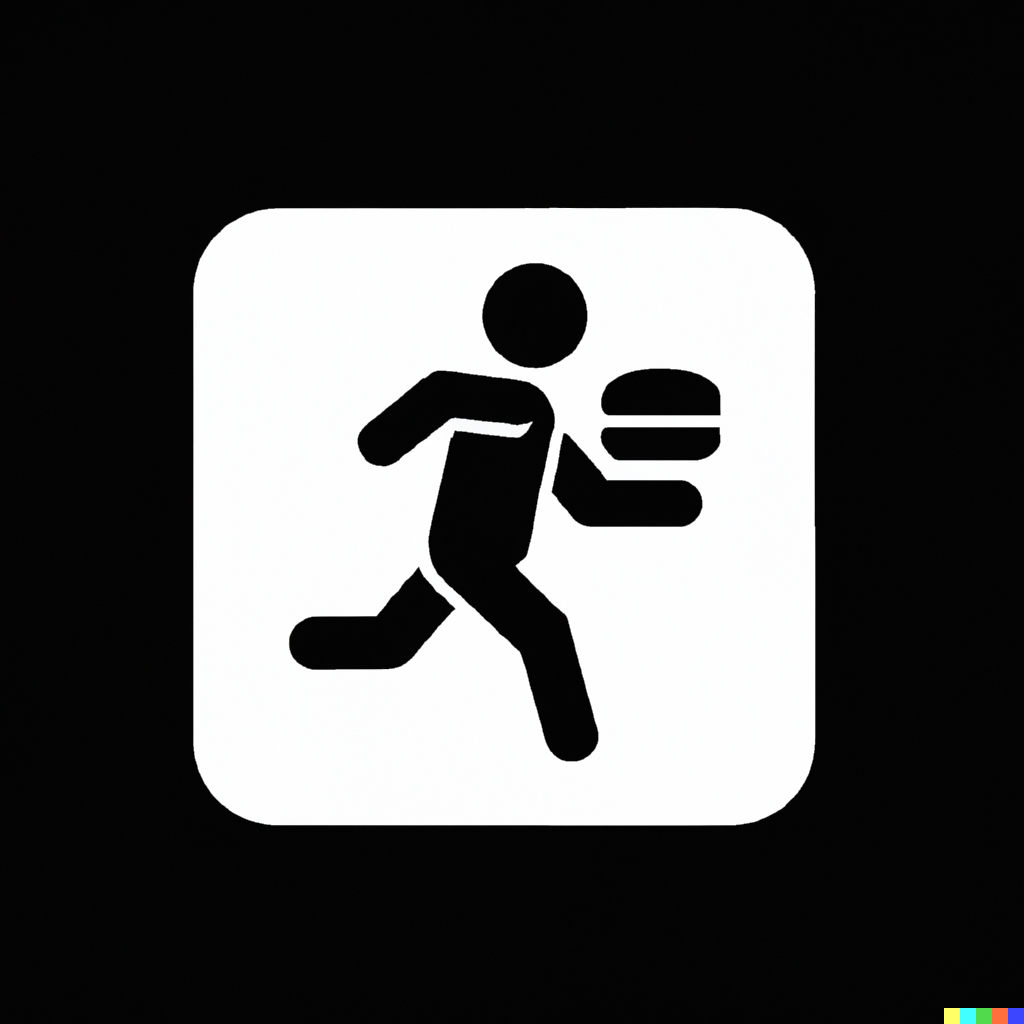
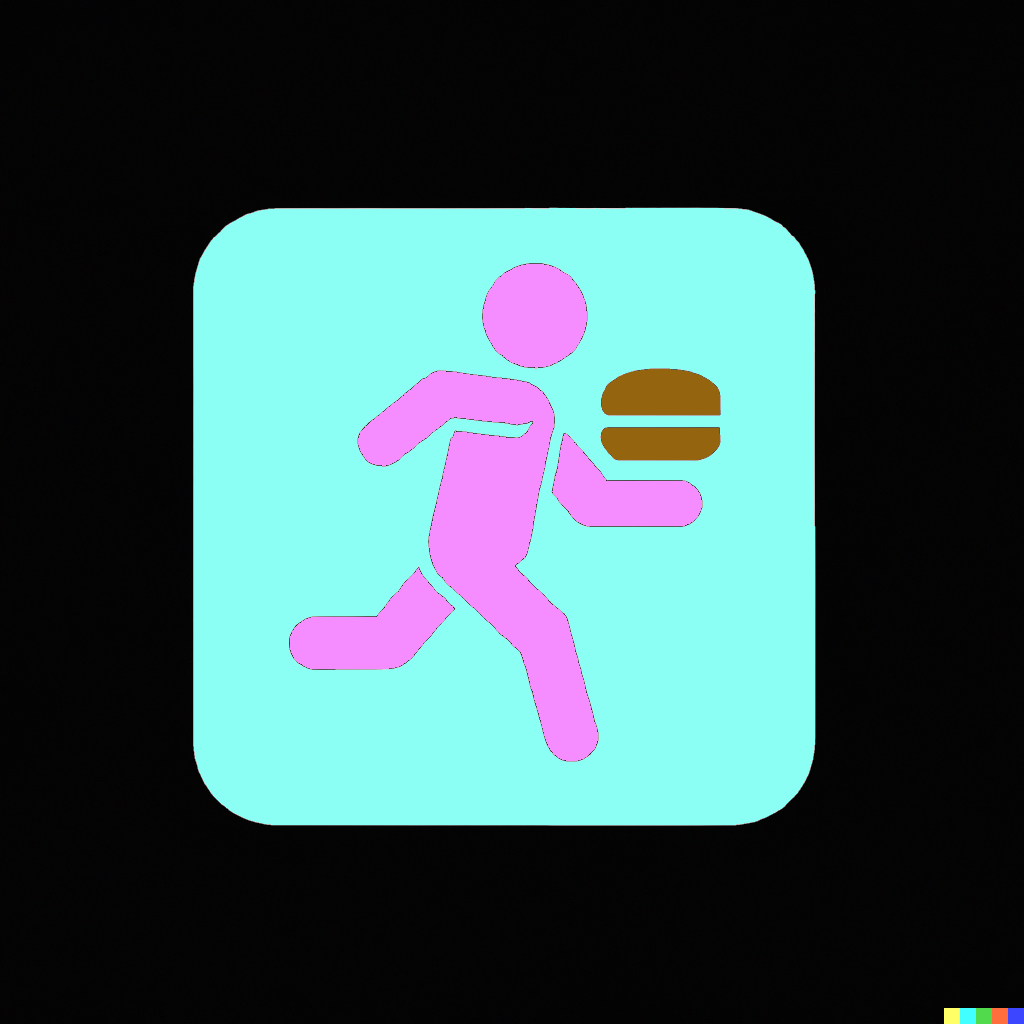
Added Bartender Position, added color to position images

diff --git a/RicksStaffApp/frmNewShift.cs b/RicksStaffApp/frmNewShift.cs
@@ -572,50 +572,99 @@ namespace RicksStaffApp
             }
             CreateEmployeeShiftPanels(flowEmployeeShiftDisplay, DateOnly.FromDateTime(dtpShiftDate.Value), pnlNewShiftDisplay);
         }
-        private static void UpdateEmployeeShiftPanel (EmployeeShift employeeShift, FlowLayoutPanel flowDisplay)
+        private void UpdateEmployeeShiftPanel (EmployeeShift es, FlowLayoutPanel flowDisplay, Panel secondPanel)
         {
             foreach (Control c in flowDisplay.Controls)
             {
                 
-                    if (c.Tag == employeeShift && c is FlowLayoutPanel empShiftContainer)
+                    if (c.Tag == es && c is FlowLayoutPanel empShiftContainer)
                     {
                         // Update employee shift rating
-                        employeeShift.UpdateShiftRating();
+                        es.UpdateShiftRating();
+                        empShiftContainer.Controls.Clear();
+                        System.Windows.Forms.Label lblName = UIHelper.CreateLabel(100, 30, es.Employee.FullName);
+                        empShiftContainer.Controls.Add(lblName);
 
-                        foreach (Control control in empShiftContainer.Controls)
+                        //Label lblPos = CreateLabel(60, 30, es.Position.Name);                        
+                        //empShiftContainer.Controls.Add(lblPos);
+                        PictureBox pbPosition = UIHelper.CreatePositionPictureBox(30, 30, es.Position);
+                        empShiftContainer.Controls.Add(pbPosition);
+
+                        System.Windows.Forms.Label lblShiftRating = UIHelper.CreateLabel(25, 30, es.ShiftRating.ToString());
+                        empShiftContainer.Controls.Add(lblShiftRating);
+
+                        PictureBox pbRating = UIHelper.CreateRatingPictureBox(90, 30, es.ShiftRating);
+                        empShiftContainer.Controls.Add(pbRating);
+
+                        System.Windows.Forms.Button btnIncidents = UIHelper.CreateButtonTemplate(65, 30, "Incidents");
+                        FlowLayoutPanel incidentContainer = UIHelper.CreateFlowPanel(470, 30);
+                        bool btnClicked = false;
+                        btnIncidents.Click += (sender, e) =>
                         {
-                            // Update rating picture box image
-                            if (control is PictureBox pb)  // assuming the PictureBox's name is pbRating
+                            btnClicked = !btnClicked;
+                            if (btnClicked)
                             {
-                                pb.Image = UIHelper.GetStars(employeeShift.ShiftRating); // GetRatingImage is your own method to get image based on rating
+                                //May need to pass in shift and make it shiftToEdit?
+                                UIHelper.CreateIncidentPanels_REPLACE(es.Incidents, incidentContainer, es.Shift);
+                                empShiftContainer.Controls.Add(incidentContainer);
+                            }
+                            else
+                            {
+                                incidentContainer.Controls.Clear();
+                                empShiftContainer.Controls.Remove(incidentContainer);
                             }
 
-                            // Update incidents button click handler
-                            if (control is System.Windows.Forms.Button btn && btn.Name == "btnIncidents") // assuming the Button's name is btnIncidents
-                            {
-                                control.Dispose();
+                        };
+                        empShiftContainer.Controls.Add(btnIncidents);
 
-                                //// remove all handlers attached to the Click event
-                                //btn.Click -= btn_Click;  // assuming that btn_Click is the current method attached to the Click event
+                        System.Windows.Forms.Button btnAddIncidents = UIHelper.CreateButtonTemplate(65, 30, "Add/Edit");
+                        btnAddIncidents.Click += (sender, e) =>
+                        {
+                            secondPanel.Controls.Clear();
+                            frmServerShift frmServerShift = new frmServerShift(es);
+                            frmServerShift.EmployeeShiftUpdated += FrmServerShift_EmployeeShiftUpdated;
+                            //frmServerShift.EmployeeShiftToEdit = es;
+                            frmServerShift.TopLevel = false;
+                            secondPanel.Controls.Add(frmServerShift);
 
-                                //// add new handler
-                                //bool btnClicked = false;
-                                //btn.Click += (sender, e) =>
-                                //{
-                                //    btnClicked = !btnClicked;
-                                //    if (btnClicked)
-                                //    {
-                                //        // replace the 'shift' variable with the new updated employee shift 
-                                //        UIHelper.CreateIncidentPanels_REPLACE(employeeShift.Incidents, empShiftContainer, employeeShift);
-                                //    }
-                                //    else
-                                //    {
-                                //        empShiftContainer.Controls.Clear();
-                                //    }
-                                //};
-                            }
-                        }
-                    }
+                            frmServerShift.Show();
+                        };
+                        empShiftContainer.Controls.Add(btnAddIncidents);
+
+                    //foreach (Control control in empShiftContainer.Controls)
+                    //{
+                    //    // Update rating picture box image
+                    //    if (control is PictureBox pb)  // assuming the PictureBox's name is pbRating
+                    //    {
+                    //        pb.Image = UIHelper.GetStars(employeeShift.ShiftRating); // GetRatingImage is your own method to get image based on rating
+                    //    }
+
+                    //    // Update incidents button click handler
+                    //    if (control is System.Windows.Forms.Button btn && btn.Name == "btnIncidents") // assuming the Button's name is btnIncidents
+                    //    {
+                    //        control.Dispose();
+
+                    //        //// remove all handlers attached to the Click event
+                    //        //btn.Click -= btn_Click;  // assuming that btn_Click is the current method attached to the Click event
+
+                    //        //// add new handler
+                    //        //bool btnClicked = false;
+                    //        //btn.Click += (sender, e) =>
+                    //        //{
+                    //        //    btnClicked = !btnClicked;
+                    //        //    if (btnClicked)
+                    //        //    {
+                    //        //        // replace the 'shift' variable with the new updated employee shift 
+                    //        //        UIHelper.CreateIncidentPanels_REPLACE(employeeShift.Incidents, empShiftContainer, employeeShift);
+                    //        //    }
+                    //        //    else
+                    //        //    {
+                    //        //        empShiftContainer.Controls.Clear();
+                    //        //    }
+                    //        //};
+                    //    }
+                    //}
+                }
                 
             }
         }
@@ -726,7 +775,7 @@ namespace RicksStaffApp
         }
         private void FrmServerShift_EmployeeShiftUpdated(EmployeeShift employeeShift)
         {
-            UpdateEmployeeShiftPanel(employeeShift, flowEmployeeShiftDisplay);
+            UpdateEmployeeShiftPanel(employeeShift, flowEmployeeShiftDisplay, pnlNewShiftDisplay);
         }
 
         private void CalendarShiftClicked(object sender, EventArgs e)

diff --git a/RicksStaffApp/Properties/Resources.Designer.cs b/RicksStaffApp/Properties/Resources.Designer.cs
@@ -183,6 +183,36 @@ namespace RicksStaffApp.Properties {
         /// <summary>
         ///   Looks up a localized resource of type System.Drawing.Bitmap.
         /// </summary>
+        internal static System.Drawing.Bitmap Bartender {
+            get {
+                object obj = ResourceManager.GetObject("Bartender", resourceCulture);
+                return ((System.Drawing.Bitmap)(obj));
+            }
+        }
+        
+        /// <summary>
+        ///   Looks up a localized resource of type System.Drawing.Bitmap.
+        /// </summary>
+        internal static System.Drawing.Bitmap Bartender1 {
+            get {
+                object obj = ResourceManager.GetObject("Bartender1", resourceCulture);
+                return ((System.Drawing.Bitmap)(obj));
+            }
+        }
+        
+        /// <summary>
+        ///   Looks up a localized resource of type System.Drawing.Bitmap.
+        /// </summary>
+        internal static System.Drawing.Bitmap Bartender3 {
+            get {
+                object obj = ResourceManager.GetObject("Bartender3", resourceCulture);
+                return ((System.Drawing.Bitmap)(obj));
+            }
+        }
+        
+        /// <summary>
+        ///   Looks up a localized resource of type System.Drawing.Bitmap.
+        /// </summary>
         internal static System.Drawing.Bitmap Blank_Slate_Stars {
             get {
                 object obj = ResourceManager.GetObject("Blank_Slate_Stars", resourceCulture);
@@ -203,9 +233,29 @@ namespace RicksStaffApp.Properties {
         /// <summary>
         ///   Looks up a localized resource of type System.Drawing.Bitmap.
         /// </summary>
-        internal static System.Drawing.Bitmap Busser {
+        internal static System.Drawing.Bitmap Busser1 {
             get {
-                object obj = ResourceManager.GetObject("Busser", resourceCulture);
+                object obj = ResourceManager.GetObject("Busser1", resourceCulture);
+                return ((System.Drawing.Bitmap)(obj));
+            }
+        }
+        
+        /// <summary>
+        ///   Looks up a localized resource of type System.Drawing.Bitmap.
+        /// </summary>
+        internal static System.Drawing.Bitmap Busser3 {
+            get {
+                object obj = ResourceManager.GetObject("Busser3", resourceCulture);
+                return ((System.Drawing.Bitmap)(obj));
+            }
+        }
+        
+        /// <summary>
+        ///   Looks up a localized resource of type System.Drawing.Bitmap.
+        /// </summary>
+        internal static System.Drawing.Bitmap BusserPic {
+            get {
+                object obj = ResourceManager.GetObject("BusserPic", resourceCulture);
                 return ((System.Drawing.Bitmap)(obj));
             }
         }
@@ -263,6 +313,26 @@ namespace RicksStaffApp.Properties {
         /// <summary>
         ///   Looks up a localized resource of type System.Drawing.Bitmap.
         /// </summary>
+        internal static System.Drawing.Bitmap FoodRunner1 {
+            get {
+                object obj = ResourceManager.GetObject("FoodRunner1", resourceCulture);
+                return ((System.Drawing.Bitmap)(obj));
+            }
+        }
+        
+        /// <summary>
+        ///   Looks up a localized resource of type System.Drawing.Bitmap.
+        /// </summary>
+        internal static System.Drawing.Bitmap FoodRunner2 {
+            get {
+                object obj = ResourceManager.GetObject("FoodRunner2", resourceCulture);
+                return ((System.Drawing.Bitmap)(obj));
+            }
+        }
+        
+        /// <summary>
+        ///   Looks up a localized resource of type System.Drawing.Bitmap.
+        /// </summary>
         internal static System.Drawing.Bitmap ForwardArrow {
             get {
                 object obj = ResourceManager.GetObject("ForwardArrow", resourceCulture);
@@ -306,6 +376,16 @@ namespace RicksStaffApp.Properties {
         internal static System.Drawing.Bitmap Host {
             get {
                 object obj = ResourceManager.GetObject("Host", resourceCulture);
+                return ((System.Drawing.Bitmap)(obj));
+            }
+        }
+        
+        /// <summary>
+        ///   Looks up a localized resource of type System.Drawing.Bitmap.
+        /// </summary>
+        internal static System.Drawing.Bitmap Host1 {
+            get {
+                object obj = ResourceManager.GetObject("Host1", resourceCulture);
                 return ((System.Drawing.Bitmap)(obj));
             }
         }
@@ -396,6 +476,16 @@ namespace RicksStaffApp.Properties {
         internal static System.Drawing.Bitmap Server {
             get {
                 object obj = ResourceManager.GetObject("Server", resourceCulture);
+                return ((System.Drawing.Bitmap)(obj));
+            }
+        }
+        
+        /// <summary>
+        ///   Looks up a localized resource of type System.Drawing.Bitmap.
+        /// </summary>
+        internal static System.Drawing.Bitmap Server1 {
+            get {
+                object obj = ResourceManager.GetObject("Server1", resourceCulture);
                 return ((System.Drawing.Bitmap)(obj));
             }
         }

diff --git a/RicksStaffApp/frmExcelDownload.cs b/RicksStaffApp/frmExcelDownload.cs
@@ -466,7 +466,7 @@ namespace RicksStaffApp
                 employeeShifts.Add(employeeShift);
             
         }
-
+        //public delegate void ShiftCreatedEventHandler
         private void btnCreateShift_Click(object sender, EventArgs e)
         {
             try
@@ -612,7 +612,7 @@ namespace RicksStaffApp
             foreach (EmployeeShift emp in employeeShifts)
             {
                 Panel empPanelContainer = new Panel();
-                empPanelContainer.Size = new Size(180, 22);
+                empPanelContainer.Size = new Size(180, 25);
                 empPanelContainer.BackColor = MyColors.LightHighlight;
                 empPanelContainer.Margin = new Padding(2, 2, 2, 2);
 
@@ -620,9 +620,10 @@ namespace RicksStaffApp
                 FlowLayoutPanel empPanel = UIHelper.CreateFlowPanel(180, 25);
 
                 empPanel.Margin = new Padding(1, 1, 1, 1);
+                PictureBox pbPosition = UIHelper.CreatePositionPictureBox(25,25, emp.Position);
+                empPanelContainer.Controls.Add(pbPosition);
 
-
-                System.Windows.Forms.Label lblName = UIHelper.CreateLabel(150, 22, emp.Employee.FullName);
+                System.Windows.Forms.Label lblName = UIHelper.CreateLabel(150, 25, emp.Employee.FullName);
 
                 empPanel.Controls.Add(lblName);
 
@@ -664,67 +665,7 @@ namespace RicksStaffApp
                 flowEmployeeDisplay.Controls.Add(empPanelContainer);
             }
         }
-        private static void CreateOldEmployeePanelsExcel(List<Employee> employeeList, FlowLayoutPanel flowEmployeeDisplay)
-        {
-            // Clear existing panels
-            flowEmployeeDisplay.Controls.Clear();
-
-            // Loop through employee list and create a panel for each employee
-            foreach (Employee emp in employeeList)
-            {
-                Panel empPanelContainer = new Panel();
-                empPanelContainer.Size = new Size(180, 22);
-                empPanelContainer.BackColor = MyColors.LightHighlight;
-                empPanelContainer.Margin = new Padding(2, 2, 2, 2);
-
-
-                FlowLayoutPanel empPanel = UIHelper.CreateFlowPanel(180, 25);
-
-                empPanel.Margin = new Padding(1, 1, 1, 1);
-
-
-                System.Windows.Forms.Label lblName = UIHelper.CreateLabel(150, 22, emp.FullName);
-
-                empPanel.Controls.Add(lblName);
-
-                // Create panels for employee positions
-
-
-                // Add the employee panel to the container panel
-                empPanelContainer.Controls.Add(empPanel);
-                //int remainingWidth = empPanel.Parent.ClientSize.Width - lblName.Width - emp.Positions.Count * pnlPos.Width;
-
-                // Add the delete button to the container panel
-                System.Windows.Forms.Button btnDelete = UIHelper.CreateButtonTemplate(16, 16, "X");
-
-                //btnDelete.AutoSize = true;
-                btnDelete.Margin = new Padding(0, 0, 0, 0);
-                btnDelete.Location = new System.Drawing.Point(410, 0);
-                btnDelete.Font = new System.Drawing.Font(btnDelete.Font.FontFamily, 6);
-                btnDelete.Anchor = AnchorStyles.Top | AnchorStyles.Right;
-                btnDelete.Click += (sender, e) =>
-                {
-                    // Prompt user to confirm deletion
-                    DialogResult result = MessageBox.Show("Are you sure you want to delete this employee?", "Delete Employee", MessageBoxButtons.YesNo, MessageBoxIcon.Question);
-                    if (result == DialogResult.Yes)
-                    {
-                        // Delete employee from database
-                        SqliteDataAccess.DeleteEmployee(emp.ID);
-
-                        // Remove employee from list
-                        employeeList.Remove(emp);
-
-                        // Update UI
-                        //CreateEmployeePanels();
-                    }
-                };
-
-                empPanel.Parent.Controls.Add(btnDelete);
-                //empPanelContainer.Controls.Add(btnDelete);
-
-                flowEmployeeDisplay.Controls.Add(empPanelContainer);
-            }
-        }
+        
         /*
 private void frmExcelDownload_Load(object sender, EventArgs e)
 {

diff --git a/RicksStaffApp/UIHelper.cs b/RicksStaffApp/UIHelper.cs
@@ -226,13 +226,16 @@ namespace RicksStaffApp
                     PositionImage = Properties.Resources.Server;
                     break;
                 case "Runner":
-                    PositionImage = Properties.Resources.FoodRunner; 
+                    PositionImage = Properties.Resources.FoodRunner2; 
                     break;
                 case "Busser":
-                    PositionImage = Properties.Resources.Busser;
+                    PositionImage = Properties.Resources.BusserPic;
                     break;
                 case "Host":
                     PositionImage = Properties.Resources.Host;
+                    break;
+                case "Bartender":
+                    PositionImage = Properties.Resources.Bartender3;
                     break;
             }
             return PositionImage;
